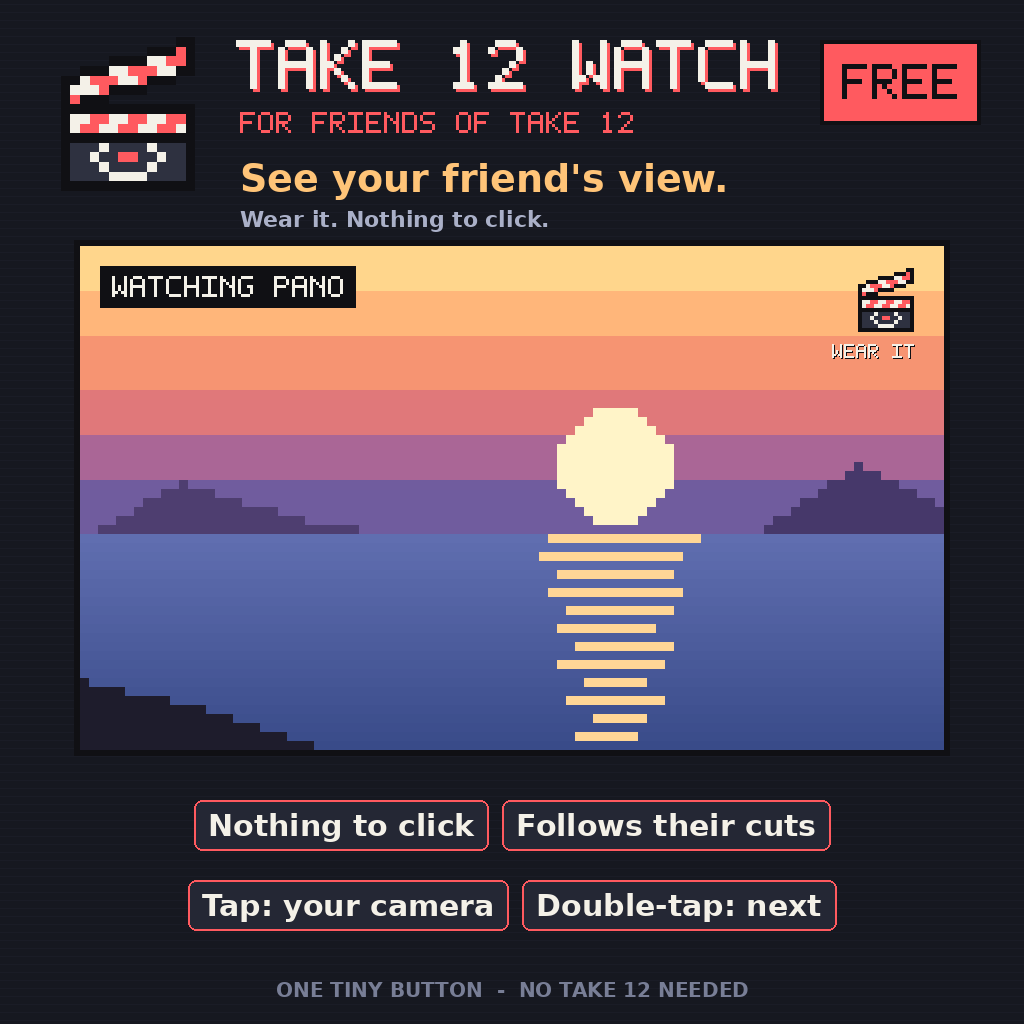
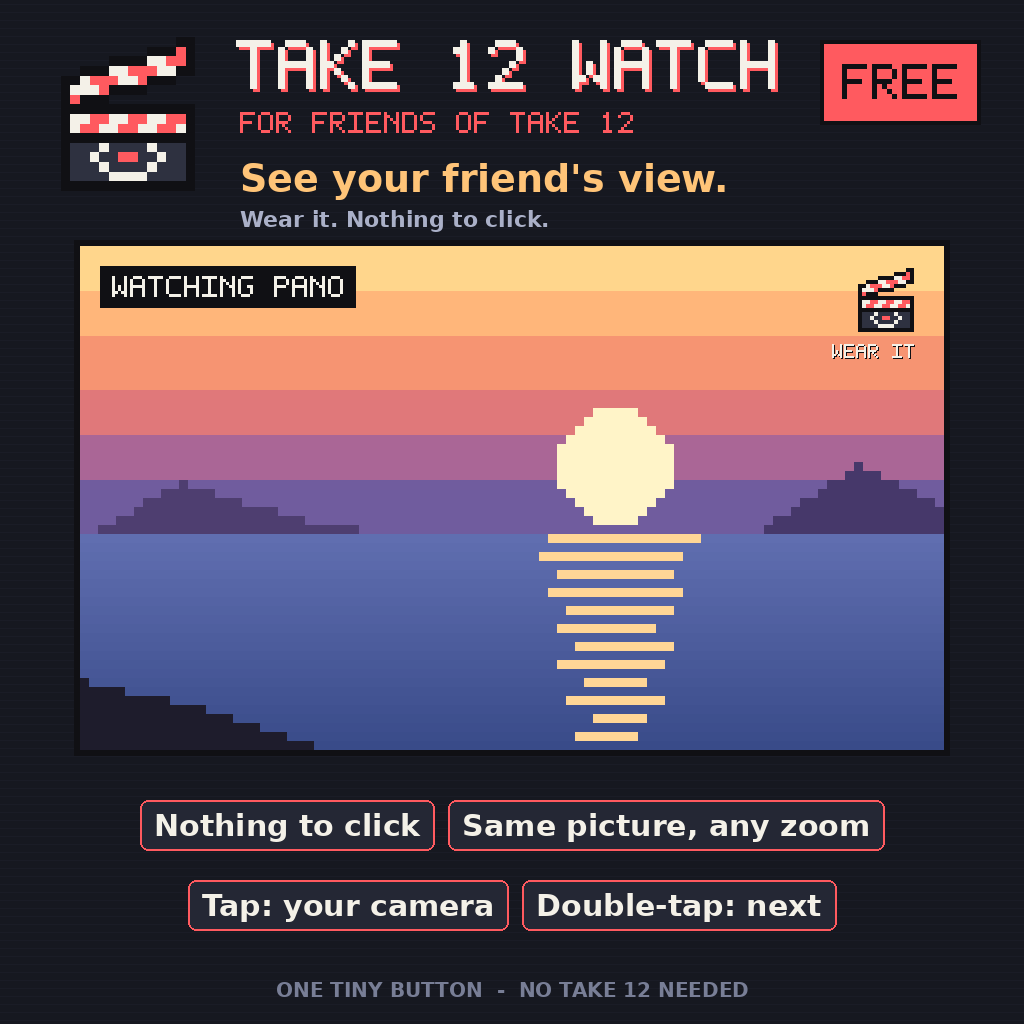
Marketing for 6.0.1: same picture whatever the zoom (listing, Watch listing and board)
Claude-Session: https://claude.ai/code/session_017fxCDsK7kSKGLKYB8MXKf1

Changed region(s): [[0.125, 0.7812, 0.875, 0.8438]]

diff --git a/tools/art/make_adboard.py b/tools/art/make_adboard.py
@@ -345,7 +345,7 @@ def watch():
     paste_framed(im, hero, (hx, hy), border=6)
     btn = icon.watch_icon().resize((72, 72), Image.NEAREST); im.paste(btn, (hx + gw * sc - 72 - 22, hy + 18), btn)
     ptext(im, (hx + gw * sc - 112, hy + 98), "WEAR IT", 2, CHALK, shadow=INK)
-    chips(im, 800, ["Nothing to click", "Follows their cuts"], 30, 80, S - 80)
+    chips(im, 800, ["Nothing to click", "Same picture, any zoom"], 30, 80, S - 80)
     chips(im, 880, ["Tap: your camera", "Double-tap: next"], 30, 80, S - 80)
     d.text((S // 2, 990), "ONE TINY BUTTON  -  NO TAKE 12 NEEDED", font=font(20), fill=(120, 126, 150), anchor="mm")
     return im

diff --git a/hud/marketing/marketplace_listing.md b/hud/marketing/marketplace_listing.md
@@ -3,7 +3,7 @@
 The Marketplace description is plain text. Copy each block below as it is: no bold, no headings, only "-" lists.
 Fields marked (you) need your own details (price, creator, support contact).
 
-This is the 6.0 text. The 4.8 listing is kept in `legacy/` ("your idle time, on film" is in the older ones: it was
+This is the 6.0.1 text. The 4.8 listing is kept in `legacy/` ("your idle time, on film" is in the older ones: it was
 replaced because "film" and "filming" made people think the HUD records video, which it does not).
 The free Take 12 Watch has its own listing: `watch/marketing/marketplace_listing_watch.md`.
 
@@ -50,6 +50,7 @@ In Only friends, set the view up the way you like it with your own camera: close
 SHARE THE VIEW
 Hold the button and choose Go live. Everyone near you who wears Take 12 or the free Take 12 Watch follows your camera, at once, with nothing to click. The Watch is a tiny free HUD that you can hand to any friend.
 - Above your button you always see who is connected: "LIVE - 3 watching" and their names.
+- Everyone sees the same picture, whatever their own zoom: each viewer's camera stands where their lens shows it the same size.
 - Double-tap while watching, and everyone gets the next view.
 - Look around with your own camera, and Esc brings you back to the shared view.
 - Pass the camera to a friend, or let anyone ask to lead. You decide: ask me each time, always, or never.
@@ -124,12 +125,13 @@ Take 12 is a one-button HUD that moves your camera off your avatar to drone view
 
 ## What is new in 6.0 (the Marketplace update message, or a group notice for existing buyers)
 ```
-Take 12 6.0: your lens, everywhere.
+Take 12 6.0.1: your lens, everywhere.
 - Your viewer's zoom (Ctrl+0 / Ctrl+8) is your lens, and every camera now frames for it: zoom in while Me, Us or Only friends runs and the camera glides back, so everyone keeps their size with the flatter faces of a portrait lens.
 - A longer lens brings more close views of faces, a wider one more of the place.
 - The line above the button shows your lens and the range each camera likes.
 - Still names the classic portrait lens for each framing (50, 85, 105 mm), and Shift + A/D slides you across the picture.
 - While the camera runs, the little clapper gives a tiny clap now and then.
+- Sharing: everyone who watches sees the same picture, whatever their own zoom (6.0.1).
 Get the new version from your Marketplace purchases (Update), and read the new notecard.
 ```
 

diff --git a/watch/marketing/marketplace_listing_watch.md b/watch/marketing/marketplace_listing_watch.md
@@ -27,6 +27,7 @@ HOW IT WORKS
 - Wear the Watch on a HUD point (Top Right is usual) and allow camera control once.
 - When a friend near you goes live with Take 12 and invites you, your camera follows theirs at once. Wearing the Watch is your yes: there is nothing to click.
 - Above the Watch you see whose view you are watching: "Pano".
+- You see the same picture as your friend, whatever your own zoom: the Watch places the camera so your lens shows it the same size.
 
 YOU ARE IN CONTROL
 - Tap the Watch, or press any movement key: your own camera is back.
@@ -47,7 +48,7 @@ GOOD TO KNOW
 ## Features (the Marketplace "Features" list takes 5)
 ```
 Free HUD to watch a friend's Take 12 camera live
-Nothing to click: wearing it is the yes
+The same picture as your friend, whatever your zoom
 Tap or any movement key: your own camera back
 Double-tap: next view for everyone watching
 Follows the camera when your friend passes it on

diff --git a/CHANGELOG.md b/CHANGELOG.md
@@ -1,5 +1,10 @@
 # Changelog
 
+## Marketing for 6.0.1 (no script changes)
+- **Listing:** "Everyone sees the same picture, whatever their own zoom" in SHARE THE VIEW, and in the update message, now "Take 12 6.0.1".
+- **Watch listing:** the same line, plus a Features line, "The same picture as your friend, whatever your zoom".
+- **Watch board:** the "Same picture, any zoom" chip replaces "Follows their cuts", since "See your friend's view." already says that. The Take 12 boards stay as in 6.0.
+
 ## 6.0.1
 **Sharing: the same picture for everyone, each through their own lens.**
 - **The problem.** A viewer received only the director's camera position and focus, and looked through their own zoom. Different zooms gave different pictures. Since 6.0 it was worse: a director zoomed to 85 mm backs the camera off about 4× so the people keep their size for them, and viewers at the normal zoom saw a tiny group.
